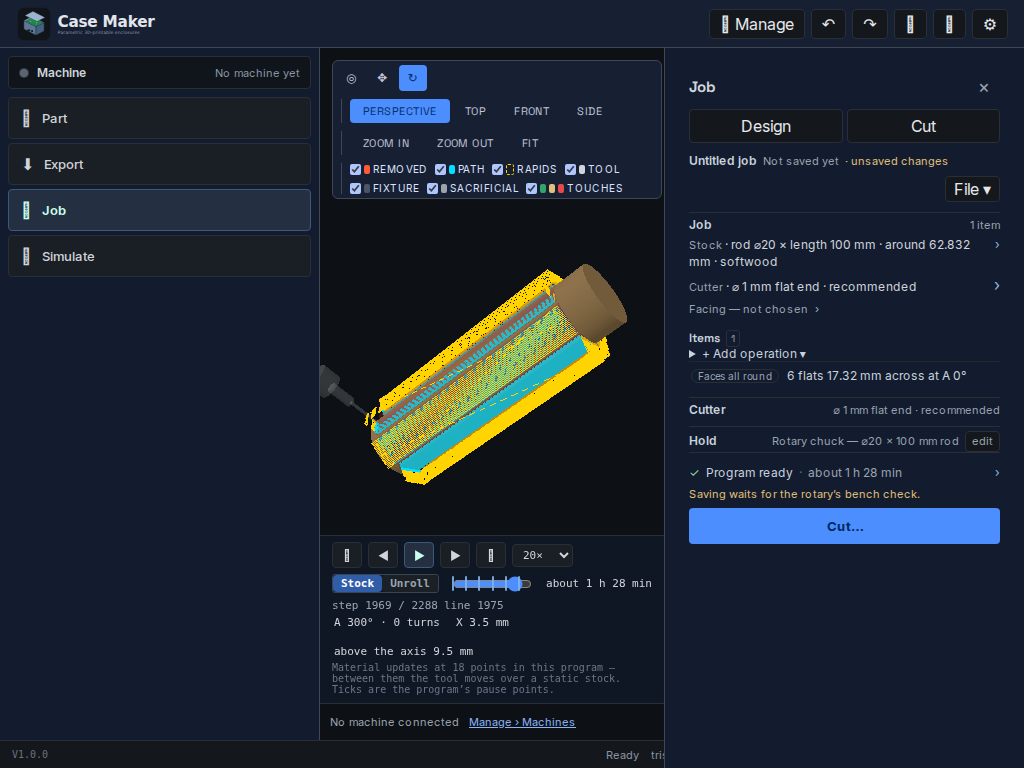
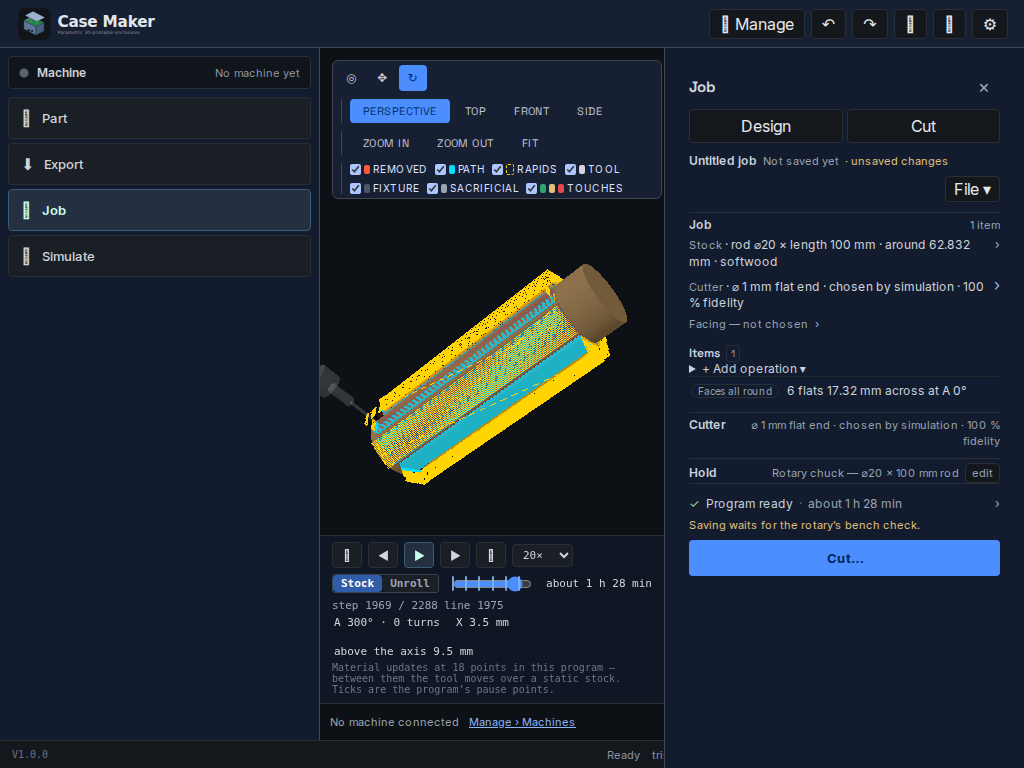
feat(rotary): the face's row offers the flat picker's operations on it (#833)
Each face operation's row now carries "Add on this face": Engrave text (which waits for its
words — an engraving with no text is not a cut), Pocket and Hole, seeded at sizes the job's
cutter can actually cut and centred on the face, plus the list of the cuts already there with a
remove. A cross-hole has no face, so its row offers none.

The wizard's step-4 e2e's Flat walk grows the same path: create the flat, Generate, then add a
pocket from the face's row, Generate again, and the stock still turns to the face's A with the
face matching the design. The row's spec pins the picker, the defaults and the removal.

Changed region(s): [[0.6562, 0.375, 1.0, 0.75], [0.8125, 0.3438, 0.9688, 0.4062], [0.5938, 0.9688, 0.6562, 1.0]]

diff --git a/casemaker-app/src/components/panels/FaceOperationRow.tsx b/casemaker-app/src/components/panels/FaceOperationRow.tsx
@@ -12,10 +12,10 @@
  * is a consequence of the depth, not a field — and a person setting a D-flat wants to see it.
  */
 
-import type { CSSProperties, JSX } from 'react';
-import type { EngraveFaceOp } from '@/types/engraveJob';
+import { useState, type CSSProperties, type JSX } from 'react';
+import type { EngraveFaceItem, EngraveFaceOp } from '@/types/engraveJob';
 import type { Mm } from '@/types/units';
-import { faceChordMm, faceOperationWords } from '@/engine/cnc/rotary/faceOps';
+import { defaultFaceItem, faceChordMm, faceItemWords, faceOperationWords } from '@/engine/cnc/rotary/faceOps';
 
 const ROW: CSSProperties = { borderTop: '1px solid #22272d', padding: '6px 2px', fontSize: 12, color: '#c8d3de' };
 const SUMMARY: CSSProperties = { cursor: 'pointer', display: 'flex', gap: 8, alignItems: 'baseline' };
@@ -30,8 +30,15 @@ export interface FaceOperationRowProps {
   index: number;
   /** The stock's radius, mm — the flat's chord is stated against it. */
   radiusMm: Mm;
+  /** The face's cuttable length along X, mm — where its cuts' centres are measured from. */
+  lengthMm: Mm;
+  /** The job cutter's diameter, mm — a cross-hole and a hole come out at it. */
+  cutterDiameterMm: Mm;
   onChange: (patch: Partial<Omit<EngraveFaceOp, 'id' | 'kind'>>) => void;
   onRemove: () => void;
+  /** #833 — a cut added on this face (an engraving, a pocket or a hole). */
+  onAddItem: (item: Omit<EngraveFaceItem, 'id'>) => void;
+  onRemoveItem: (itemId: string) => void;
 }
 
 const num = (v: number): string => String(Number(v.toFixed(2)));
@@ -75,8 +82,22 @@ function NumberField({
   );
 }
 
-export function FaceOperationRow({ face, index, radiusMm, onChange, onRemove }: FaceOperationRowProps): JSX.Element {
+export function FaceOperationRow({
+  face,
+  index,
+  radiusMm,
+  lengthMm,
+  cutterDiameterMm,
+  onChange,
+  onRemove,
+  onAddItem,
+  onRemoveItem,
+}: FaceOperationRowProps): JSX.Element {
   const typeWord = face.kind === 'flat' ? 'Flat' : face.kind === 'faces-all-round' ? 'Faces all round' : 'Cross-hole';
+  // #833 — the flat picker's three operations, on this face. Text waits for its words: an
+  // engraving with no text is not a cut the CAM can make.
+  const [words, setWords] = useState('');
+  const [addingText, setAddingText] = useState(false);
   const chord = face.kind === 'flat' ? faceChordMm(radiusMm, face.depth ?? 0) : faceChordMm(radiusMm, radiusMm - (face.acrossFlats ?? 0) / 2);
   return (
     <details style={ROW} data-testid={`engrave-face-row-${index}`}>
@@ -142,6 +163,71 @@ export function FaceOperationRow({ face, index, radiusMm, onChange, onRemove }: 
           ? 'A cross-hole is drilled through the rod at this angle, in one plunge.'
           : `The face is ${num(chord)} mm wide at this depth on a ⌀${num(2 * radiusMm)} mm rod; the passes step across it while the stock is held at the angle.`}
       </p>
+      {face.kind !== 'cross-hole' && (
+        <div style={{ margin: '6px 0 0 2px' }} data-testid={`engrave-face-add-${index}`}>
+          <span style={{ ...UNIT }}>Add on this face</span>
+          <div style={{ display: 'flex', gap: 4, flexWrap: 'wrap', marginTop: 3, alignItems: 'center' }}>
+            <button
+              type="button"
+              data-testid={`engrave-face-add-text-${index}`}
+              title="Engrave text on the face at this angle. The words are cut below the face plane."
+              onClick={() => setAddingText((v) => !v)}
+            >
+              Engrave text
+            </button>
+            <button
+              type="button"
+              data-testid={`engrave-face-add-pocket-${index}`}
+              title="A pocket on the face at this angle."
+              onClick={() => onAddItem(defaultFaceItem('pocket', lengthMm, chord, cutterDiameterMm))}
+            >
+              Pocket
+            </button>
+            <button
+              type="button"
+              data-testid={`engrave-face-add-hole-${index}`}
+              title="A hole drilled at this angle, into the face — it comes out at the cutter's diameter."
+              onClick={() => onAddItem(defaultFaceItem('hole', lengthMm, chord, cutterDiameterMm))}
+            >
+              Hole
+            </button>
+            {addingText && (
+              <>
+                <input
+                  type="text"
+                  aria-label="Words on the face"
+                  data-testid={`engrave-face-text-words-${index}`}
+                  placeholder="the words"
+                  style={{ width: 140 }}
+                  value={words}
+                  onChange={(e) => setWords(e.target.value)}
+                />
+                <button
+                  type="button"
+                  data-testid={`engrave-face-text-add-${index}`}
+                  disabled={words.trim() === ''}
+                  title="Add the engraving to this face. An engraving with no words is not a cut."
+                  onClick={() => {
+                    onAddItem(defaultFaceItem('text', lengthMm, chord, cutterDiameterMm, words.trim()));
+                    setWords('');
+                    setAddingText(false);
+                  }}
+                >
+                  Add
+                </button>
+              </>
+            )}
+          </div>
+          {(face.items ?? []).map((item) => (
+            <div key={item.id} style={{ display: 'flex', gap: 6, alignItems: 'center', marginTop: 3 }} data-testid={`engrave-face-item-${index}-${item.id}`}>
+              <span>{faceItemWords(item)}</span>
+              <button type="button" data-testid={`engrave-face-item-remove-${index}-${item.id}`} onClick={() => onRemoveItem(item.id)} title="Remove this cut from the face.">
+                Remove
+              </button>
+            </div>
+          ))}
+        </div>
+      )}
     </details>
   );
 }

diff --git a/casemaker-app/tests/unit/faceOperationRow.spec.tsx b/casemaker-app/tests/unit/faceOperationRow.spec.tsx
@@ -1,0 +1,72 @@
+// @vitest-environment jsdom
+// #833 — a face's row offers the flat picker's three operations ON that face, and lists the cuts
+// already there. Text waits for its words; a pocket and a hole seed at sizes the cutter can cut.
+import { afterEach, describe, expect, it, vi } from 'vitest';
+import { cleanup, fireEvent, render, screen } from '@testing-library/react';
+import { FaceOperationRow } from '@/components/panels/FaceOperationRow';
+import type { EngraveFaceItem, EngraveFaceOp } from '@/types/engraveJob';
+
+afterEach(cleanup);
+
+const flatFace: EngraveFaceOp = { id: 'f', kind: 'flat', a: 30, depth: 1 };
+
+function renderRow(face: EngraveFaceOp = flatFace, items: EngraveFaceItem[] = []) {
+  const onAdd = vi.fn();
+  const onRemoveItem = vi.fn();
+  render(
+    <FaceOperationRow
+      face={{ ...face, items }}
+      index={0}
+      radiusMm={10}
+      lengthMm={30}
+      cutterDiameterMm={3.175}
+      onChange={vi.fn()}
+      onRemove={vi.fn()}
+      onAddItem={onAdd}
+      onRemoveItem={onRemoveItem}
+    />,
+  );
+  return { onAdd, onRemoveItem };
+}
+
+describe('#833 a face operation’s row', () => {
+  it('offers Engrave text, Pocket and Hole on the face', () => {
+    renderRow();
+    expect(screen.getByTestId('engrave-face-add-text-0')).toBeDefined();
+    expect(screen.getByTestId('engrave-face-add-pocket-0')).toBeDefined();
+    expect(screen.getByTestId('engrave-face-add-hole-0')).toBeDefined();
+  });
+
+  it('adds a pocket at a size the cutter can cut, centred on the face', () => {
+    const { onAdd } = renderRow();
+    fireEvent.click(screen.getByTestId('engrave-face-add-pocket-0'));
+    expect(onAdd).toHaveBeenCalledWith(expect.objectContaining({ kind: 'pocket', x: 15, y: 0, width: 6.35, height: 6.35 }));
+  });
+
+  it('adds a hole at the job cutter’s diameter, and a text only once it has words', () => {
+    const { onAdd } = renderRow();
+    fireEvent.click(screen.getByTestId('engrave-face-add-hole-0'));
+    expect(onAdd).toHaveBeenCalledWith(expect.objectContaining({ kind: 'hole', diameter: 3.175 }));
+
+    fireEvent.click(screen.getByTestId('engrave-face-add-text-0'));
+    const add = screen.getByTestId('engrave-face-text-add-0') as HTMLButtonElement;
+    expect(add.disabled).toBe(true);
+    fireEvent.change(screen.getByTestId('engrave-face-text-words-0'), { target: { value: 'HI' } });
+    expect(add.disabled).toBe(false);
+    fireEvent.click(add);
+    expect(onAdd).toHaveBeenCalledWith(expect.objectContaining({ kind: 'text', text: 'HI' }));
+  });
+
+  it('lists the cuts on the face, and removes one', () => {
+    const item: EngraveFaceItem = { id: 'i1', kind: 'pocket', x: 15, y: 0, depth: 1, width: 6, height: 4 };
+    const { onRemoveItem } = renderRow(flatFace, [item]);
+    expect(screen.getByTestId('engrave-face-item-0-i1').textContent).toContain('Pocket 6 × 4 mm');
+    fireEvent.click(screen.getByTestId('engrave-face-item-remove-0-i1'));
+    expect(onRemoveItem).toHaveBeenCalledWith('i1');
+  });
+
+  it('a cross-hole has no face to add cuts to', () => {
+    renderRow({ id: 'h', kind: 'cross-hole', a: 0, diameter: 3.175 });
+    expect(screen.queryByTestId('engrave-face-add-0')).toBeNull();
+  });
+});

diff --git a/casemaker-app/src/components/panels/EngravePanel.tsx b/casemaker-app/src/components/panels/EngravePanel.tsx
@@ -115,7 +115,7 @@ import {
 import type { PcbAlignmentOffer } from '@/engine/import/pcbAlignment';
 import { MATERIAL_LABELS } from '@/engine/cnc/materials';
 import { rotaryMapOf } from '@/engine/cnc/rotary/wrap';
-import { defaultFaceOperation } from '@/engine/cnc/rotary/faceOps';
+import { defaultFaceOperation, faceSpanMm } from '@/engine/cnc/rotary/faceOps';
 import { FaceOperationRow } from './FaceOperationRow';
 import { groupRejections, isActionableRejection, shouldGroupCatalogueRows } from './recommendationRejections';
 import { useShopDefaultsStore, shopDefault } from '@/store/shopDefaultsStore';
@@ -2987,7 +2987,13 @@ export function EngravePanel(): JSX.Element {
   // #241 slice 2 — the face operations' frame: the chuck's radius (what a flat's chord is measured
   // against), and whether this job can carry one at all.
   const rotaryChuck = roundStock && job.workholding.kind === 'rotary-chuck';
-  const faceRadiusMm = rotaryMapOf(job)?.radius ?? Math.max(job.stock.width, job.stock.thickness) / 2;
+  const rotaryFaceMap = rotaryMapOf(job);
+  const faceRadiusMm = rotaryFaceMap?.radius ?? Math.max(job.stock.width, job.stock.thickness) / 2;
+  // #833 — the face frame's two measures: the cuttable span (one cutter radius clear of each
+  // band) and the job cutter's diameter (a hole comes out at it).
+  const faceCutterTool = jobTool(job);
+  const faceCutterD = (faceCutterTool === null ? null : cuttingDiameter(faceCutterTool)) ?? 3.175;
+  const faceSpanLengthMm = rotaryFaceMap === null ? 0 : Math.max(0, faceSpanMm(rotaryFaceMap, faceCutterD / 2).to - faceSpanMm(rotaryFaceMap, faceCutterD / 2).from);
   const STOCK_FIELD_WORD: Record<string, string> = {
     length: 'length',
     width: 'width',
@@ -3736,8 +3742,12 @@ export function EngravePanel(): JSX.Element {
           face={face}
           index={i}
           radiusMm={faceRadiusMm}
+          lengthMm={faceSpanLengthMm}
+          cutterDiameterMm={faceCutterD}
           onChange={(patch) => useEngraveJobStore.getState().updateFaceOperation(face.id, patch)}
           onRemove={() => useEngraveJobStore.getState().removeFaceOperation(face.id)}
+          onAddItem={(item) => useEngraveJobStore.getState().addFaceItem(face.id, item)}
+          onRemoveItem={(itemId) => useEngraveJobStore.getState().removeFaceItem(face.id, itemId)}
         />
       ))}
       {job.labels.map((label, i) => (

diff --git a/casemaker-app/tests/e2e/faceOperations241.spec.ts b/casemaker-app/tests/e2e/faceOperations241.spec.ts
@@ -81,11 +81,22 @@ test('a Flat turns the stock to its own angle and cuts a plane there', async ({ 
   await expect(page.getByTestId('engrave-face-summary-0')).toContainText('Flat 1 mm deep at A 30°');
   await generateToTicks(page);
 
-  const s = await simState(page);
+  let s = await simState(page);
   expect(s.status).toBe('ready');
   // A face is cut in several depth passes, so the sweep opens one checkpoint per pass — all at
   // the ONE angle the face was cut at.
   expect(s.runs.length).toBeGreaterThan(0);
+  expect(s.runs.every((r) => r.a !== null && Math.abs(r.a - 30) < 1e-6)).toBe(true);
+  expect(await turnAt(page, 30)).toBeCloseTo(30, 3);
+
+  // #833 — A CUT ON THE FACE, from the face's own row: a pocket at the shipped size, cut in the
+  // same program at the same index. Generate again and the face still matches the design.
+  await page.getByTestId('engrave-face-summary-0').click();
+  await page.getByTestId('engrave-face-add-pocket-0').click();
+  await expect(page.locator('[data-testid^="engrave-face-item-0-"]')).toContainText('Pocket');
+  await generateToTicks(page);
+  s = await simState(page);
+  expect(s.status).toBe('ready');
   expect(s.runs.every((r) => r.a !== null && Math.abs(r.a - 30) < 1e-6)).toBe(true);
   expect(await turnAt(page, 30)).toBeCloseTo(30, 3);
 
